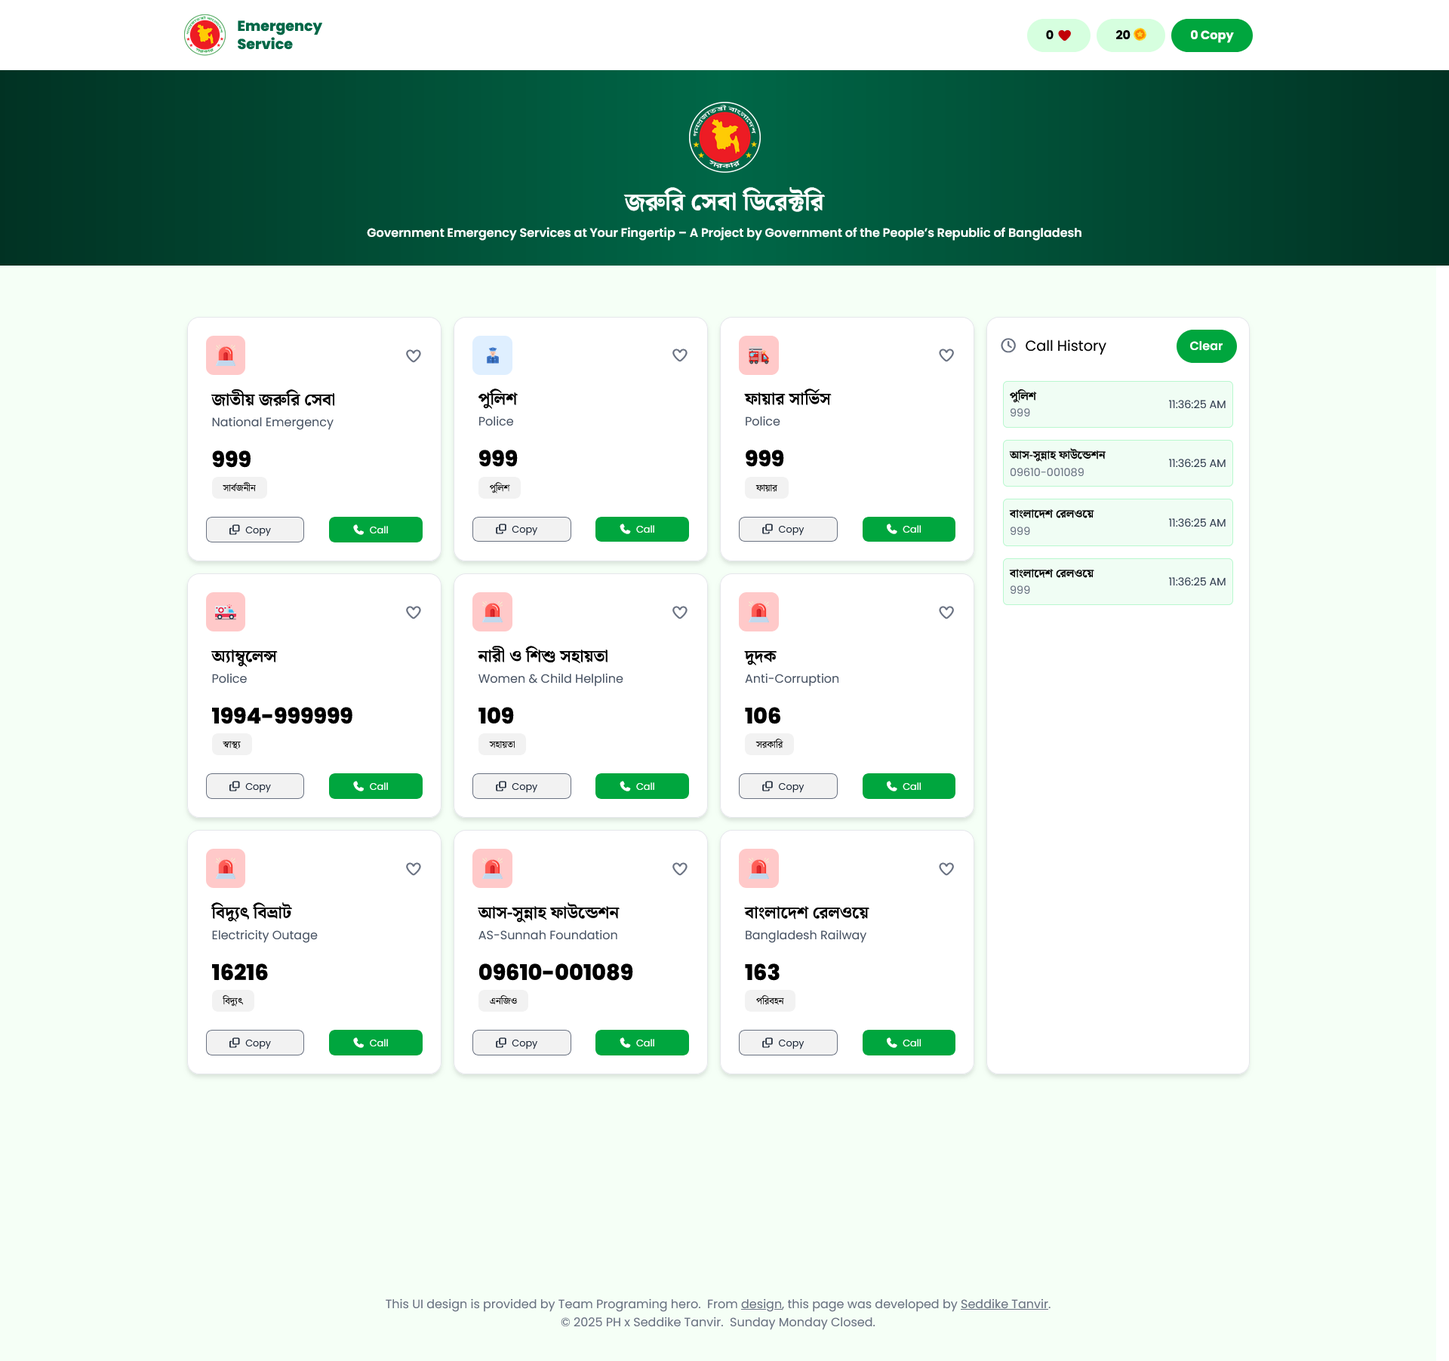
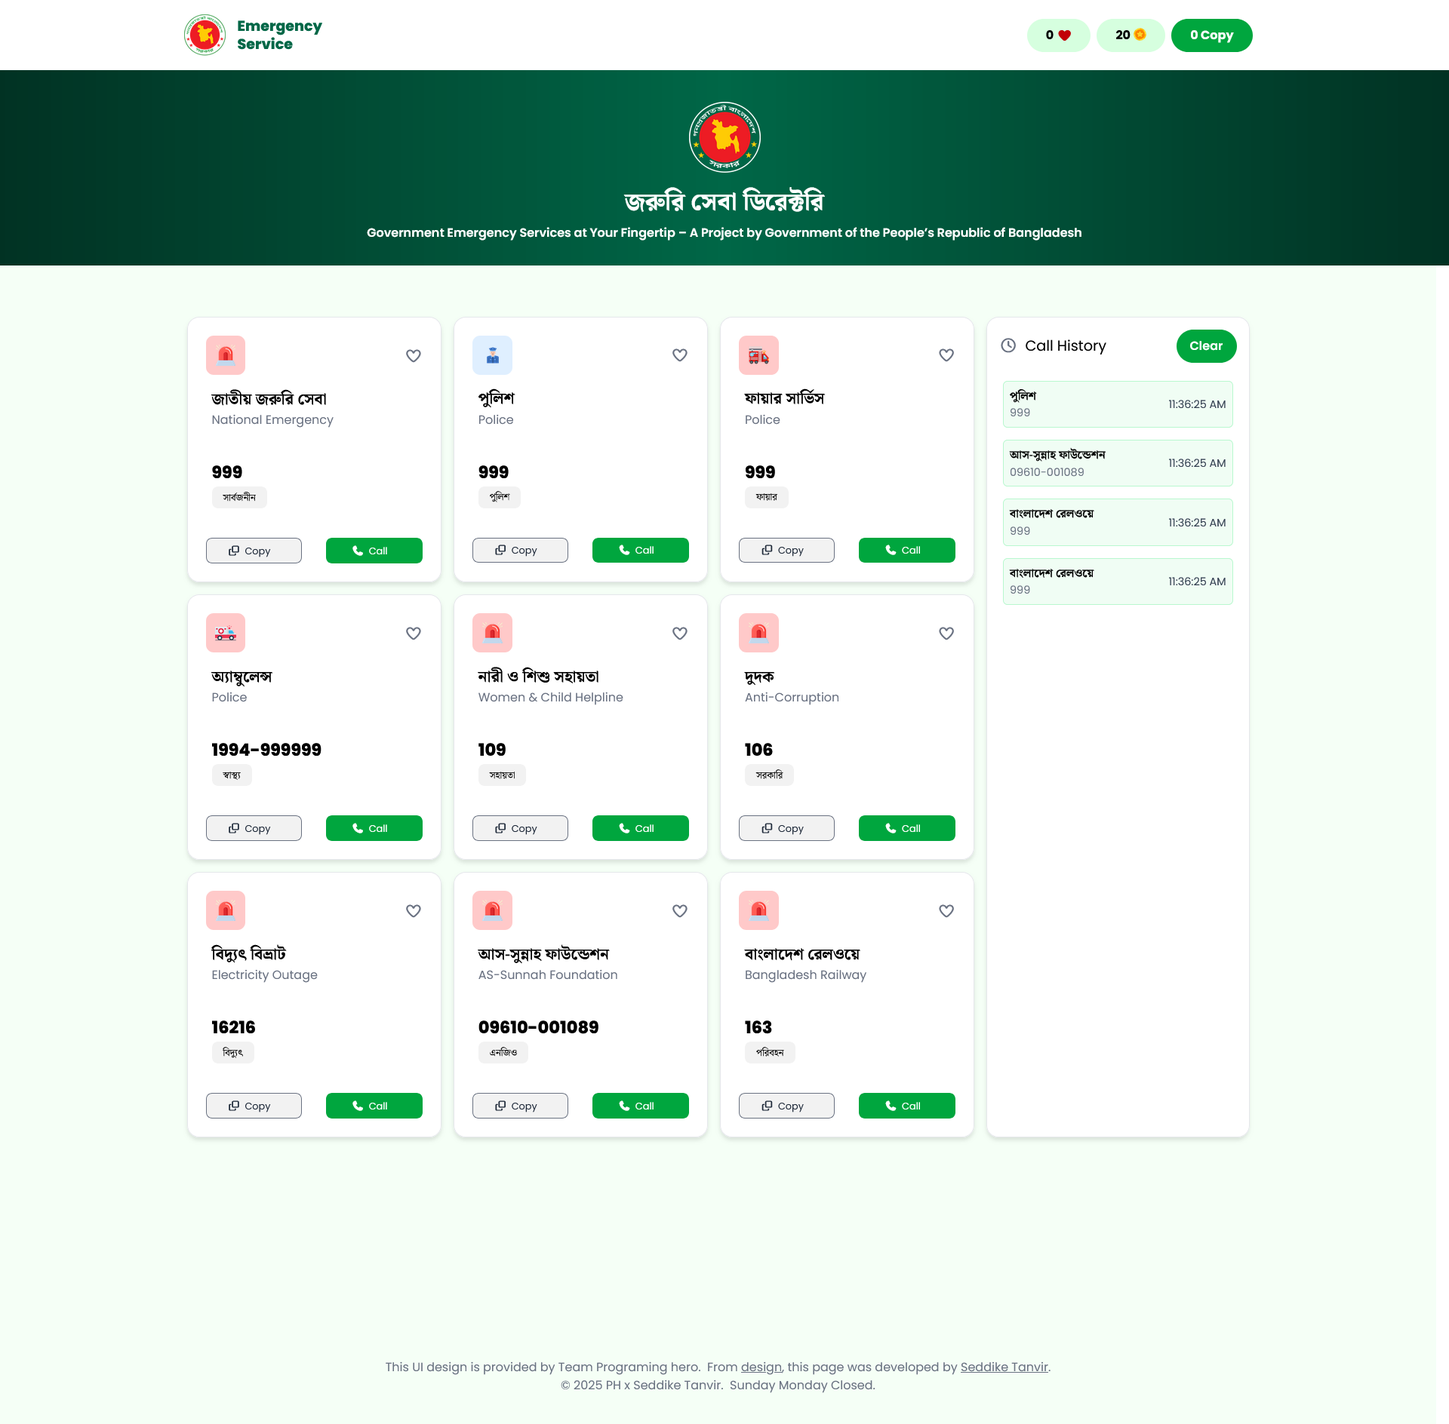
Call button and copy button style fixed ^

diff --git a/public/index.html b/public/index.html
@@ -62,17 +62,17 @@
                         </div>
                         <i class="fa-regular fa-heart p-[0rem] text-[1.2rem] text-gray-500 cursor-pointer"></i>
                     </div>
-                    <div class="cardTitle mt-4 pl-2">
-                        <p class="title font-NatoSerifBengali text-[1.4rem] font-bold">জাতীয় জরুরি সেবা</p>
-                        <p class="subtitle text-base text-gray-600">National Emergency</p>
+                    <div class="cardTitle mt-4 pl-2 min-h-[5rem]">
+                        <p class="title font-NatoSerifBengali text-[1.3rem] font-bold">জাতীয় জরুরি সেবা</p>
+                        <p class="subtitle text-base text-gray-500">National Emergency</p>
                     </div>
-                    <div class="cardmid_caller mt-4 pl-2">
-                        <p class="caller_id text-[1.8rem] font-extrabold">999</p>
+                    <div class="cardmid_caller mt-4 pl-2 h-[5rem]">
+                        <p class="caller_id text-[1.4rem] font-extrabold">999</p>
                         <p class="caller-catagory font-NatoSerifBengali bg-[#f2f2f2] px-[15px] py-[5px] mt-[2px] rounded-lg w-max text-[.8rem] font-sm ">সার্বজনীন</p>
                     </div>
-                    <div class="cardFooter_btnArea mt-6 flex flex-row justify-between ">
-                        <button class="copyBtn bg-[#f2f2f2] py-[5px] pl-[1.8rem] pr-[2.7rem] rounded-lg w-max text-gray-800 text-[.8rem] font-sm border border-gray-500 cursor-pointer"><i class="fa-regular fa-clone"></i>&nbsp; Copy </button>
-                        <button class="callBtn bg-[#00a63e] py-[5px] pl-[1.8rem] pr-[2.7rem] rounded-lg w-max text-white text-[.8rem] font-sm border-2 border-[#00a63e] cursor-pointer"><i class="fa-solid fa-phone"></i>&nbsp; Call </button>
+                    <div class="cardFooter_btnArea mt-6 flex flex-row justify-between gap-8">
+                        <button class="copyBtn bg-[#f2f2f2] py-[5px] pr-3 rounded-lg w-full text-gray-800 text-[.8rem] font-sm border border-gray-500 cursor-pointer"><i class="fa-regular fa-clone"></i>&nbsp; Copy </button>
+                        <button class="callBtn bg-[#00a63e] py-[5px] pr-3 rounded-lg w-full text-white text-[.8rem] font-sm border-2 border-[#00a63e] cursor-pointer"><i class="fa-solid fa-phone"></i>&nbsp; Call </button>
                     </div>
                 </div>
 
@@ -83,17 +83,17 @@
                         </div>
                         <i class="fa-regular fa-heart p-[0rem] text-[1.2rem] text-gray-500 cursor-pointer"></i>
                     </div>
-                    <div class="cardTitle mt-4 pl-2">
-                        <p class="title font-NatoSerifBengali text-[1.4rem] font-bold">পুলিশ</p>
-                        <p class="subtitle text-base text-gray-600">Police</p>
+                    <div class="cardTitle mt-4 pl-2 min-h-[5rem]">
+                        <p class="title font-NatoSerifBengali text-[1.3rem] font-bold">পুলিশ</p>
+                        <p class="subtitle text-base text-gray-500">Police</p>
                     </div>
-                    <div class="cardmid_caller mt-4 pl-2">
-                        <p class="caller_id text-[1.8rem] font-extrabold">999</p>
+                    <div class="cardmid_caller mt-4 pl-2 h-[5rem]">
+                        <p class="caller_id text-[1.4rem] font-extrabold">999</p>
                         <p class="caller-catagory font-NatoSerifBengali bg-[#f2f2f2] px-[15px] py-[5px] mt-[2px] rounded-lg w-max text-[.8rem] font-sm ">পুলিশ</p>
                     </div>
-                    <div class="cardFooter_btnArea mt-6 flex flex-row justify-between ">
-                        <button class="copyBtn bg-[#f2f2f2] py-[5px] pl-[1.8rem] pr-[2.7rem] rounded-lg w-max text-gray-800 text-[.8rem] font-sm border border-gray-500 cursor-pointer"><i class="fa-regular fa-clone"></i>&nbsp; Copy </button>
-                        <button class="callBtn bg-[#00a63e] py-[5px] pl-[1.8rem] pr-[2.7rem] rounded-lg w-max text-white text-[.8rem] font-sm border-2 border-[#00a63e] cursor-pointer"><i class="fa-solid fa-phone"></i>&nbsp; Call </button>
+                    <div class="cardFooter_btnArea mt-6 flex flex-row justify-between gap-8">
+                        <button class="copyBtn bg-[#f2f2f2] py-[5px] pr-3 rounded-lg w-full text-gray-800 text-[.8rem] font-sm border border-gray-500 cursor-pointer"><i class="fa-regular fa-clone"></i>&nbsp; Copy </button>
+                        <button class="callBtn bg-[#00a63e] py-[5px] pr-3 rounded-lg w-full text-white text-[.8rem] font-sm border-2 border-[#00a63e] cursor-pointer"><i class="fa-solid fa-phone"></i>&nbsp; Call </button>
                     </div>
                 </div>
 
@@ -104,17 +104,17 @@
                         </div>
                         <i class="fa-regular fa-heart p-[0rem] text-[1.2rem] text-gray-500 cursor-pointer"></i>
                     </div>
-                    <div class="cardTitle mt-4 pl-2">
-                        <p class="title font-NatoSerifBengali text-[1.4rem] font-bold">ফায়ার সার্ভিস</p>
-                        <p class="subtitle text-base text-gray-600">Police</p>
+                    <div class="cardTitle mt-4 pl-2 min-h-[5rem]">
+                        <p class="title font-NatoSerifBengali text-[1.3rem] font-bold">ফায়ার সার্ভিস</p>
+                        <p class="subtitle text-base text-gray-500">Police</p>
                     </div>
-                    <div class="cardmid_caller mt-4 pl-2">
-                        <p class="caller_id text-[1.8rem] font-extrabold">999</p>
+                    <div class="cardmid_caller mt-4 pl-2 h-[5rem]">
+                        <p class="caller_id text-[1.4rem] font-extrabold">999</p>
                         <p class="caller-catagory font-NatoSerifBengali bg-[#f2f2f2] px-[15px] py-[5px] mt-[2px] rounded-lg w-max text-[.8rem] font-sm ">ফায়ার</p>
                     </div>
-                    <div class="cardFooter_btnArea mt-6 flex flex-row justify-between ">
-                        <button class="copyBtn bg-[#f2f2f2] py-[5px] pl-[1.8rem] pr-[2.7rem] rounded-lg w-max text-gray-800 text-[.8rem] font-sm border border-gray-500 cursor-pointer"><i class="fa-regular fa-clone"></i>&nbsp; Copy </button>
-                        <button class="callBtn bg-[#00a63e] py-[5px] pl-[1.8rem] pr-[2.7rem] rounded-lg w-max text-white text-[.8rem] font-sm border-2 border-[#00a63e] cursor-pointer"><i class="fa-solid fa-phone"></i>&nbsp; Call </button>
+                    <div class="cardFooter_btnArea mt-6 flex flex-row justify-between gap-8">
+                        <button class="copyBtn bg-[#f2f2f2] py-[5px] pr-3 rounded-lg w-full text-gray-800 text-[.8rem] font-sm border border-gray-500 cursor-pointer"><i class="fa-regular fa-clone"></i>&nbsp; Copy </button>
+                        <button class="callBtn bg-[#00a63e] py-[5px] pr-3 rounded-lg w-full text-white text-[.8rem] font-sm border-2 border-[#00a63e] cursor-pointer"><i class="fa-solid fa-phone"></i>&nbsp; Call </button>
                     </div>
                 </div>
 
@@ -125,17 +125,17 @@
                         </div>
                         <i class="fa-regular fa-heart p-[0rem] text-[1.2rem] text-gray-500 cursor-pointer"></i>
                     </div>
-                    <div class="cardTitle mt-4 pl-2">
-                        <p class="title font-NatoSerifBengali text-[1.4rem] font-bold">অ্যাম্বুলেন্স</p>
-                        <p class="subtitle text-base text-gray-600">Police</p>
+                    <div class="cardTitle mt-4 pl-2 min-h-[5rem]">
+                        <p class="title font-NatoSerifBengali text-[1.3rem] font-bold">অ্যাম্বুলেন্স</p>
+                        <p class="subtitle text-base text-gray-500">Police</p>
                     </div>
-                    <div class="cardmid_caller mt-4 pl-2">
-                        <p class="caller_id text-[1.8rem] font-extrabold">1994-999999</p>
+                    <div class="cardmid_caller mt-4 pl-2 h-[5rem]">
+                        <p class="caller_id text-[1.4rem] font-extrabold">1994-999999</p>
                         <p class="caller-catagory font-NatoSerifBengali bg-[#f2f2f2] px-[15px] py-[5px] mt-[2px] rounded-lg w-max text-[.8rem] font-sm ">স্বাস্থ্য</p>
                     </div>
-                    <div class="cardFooter_btnArea mt-6 flex flex-row justify-between ">
-                        <button class="copyBtn bg-[#f2f2f2] py-[5px] pl-[1.8rem] pr-[2.7rem] rounded-lg w-max text-gray-800 text-[.8rem] font-sm border border-gray-500 cursor-pointer"><i class="fa-regular fa-clone"></i>&nbsp; Copy </button>
-                        <button class="callBtn bg-[#00a63e] py-[5px] pl-[1.8rem] pr-[2.7rem] rounded-lg w-max text-white text-[.8rem] font-sm border-2 border-[#00a63e] cursor-pointer"><i class="fa-solid fa-phone"></i>&nbsp; Call </button>
+                    <div class="cardFooter_btnArea mt-6 flex flex-row justify-between gap-8">
+                        <button class="copyBtn bg-[#f2f2f2] py-[5px] pr-3 rounded-lg w-full text-gray-800 text-[.8rem] font-sm border border-gray-500 cursor-pointer"><i class="fa-regular fa-clone"></i>&nbsp; Copy </button>
+                        <button class="callBtn bg-[#00a63e] py-[5px] pr-3 rounded-lg w-full text-white text-[.8rem] font-sm border-2 border-[#00a63e] cursor-pointer"><i class="fa-solid fa-phone"></i>&nbsp; Call </button>
                     </div>
                 </div>
 
@@ -146,17 +146,17 @@
                         </div>
                         <i class="fa-regular fa-heart p-[0rem] text-[1.2rem] text-gray-500 cursor-pointer"></i>
                     </div>
-                    <div class="cardTitle mt-4 pl-2">
-                        <p class="title font-NatoSerifBengali text-[1.4rem] font-bold">নারী ও শিশু সহায়তা</p>
-                        <p class="subtitle text-base text-gray-600">Women & Child Helpline</p>
+                    <div class="cardTitle mt-4 pl-2 min-h-[5rem]">
+                        <p class="title font-NatoSerifBengali text-[1.3rem] font-bold">নারী ও শিশু সহায়তা</p>
+                        <p class="subtitle text-base text-gray-500">Women & Child Helpline</p>
                     </div>
-                    <div class="cardmid_caller mt-4 pl-2">
-                        <p class="caller_id text-[1.8rem] font-extrabold">109</p>
+                    <div class="cardmid_caller mt-4 pl-2 h-[5rem]">
+                        <p class="caller_id text-[1.4rem] font-extrabold">109</p>
                         <p class="caller-catagory font-NatoSerifBengali bg-[#f2f2f2] px-[15px] py-[5px] mt-[2px] rounded-lg w-max text-[.8rem] font-sm ">সহায়তা</p>
                     </div>
-                    <div class="cardFooter_btnArea mt-6 flex flex-row justify-between ">
-                        <button class="copyBtn bg-[#f2f2f2] py-[5px] pl-[1.8rem] pr-[2.7rem] rounded-lg w-max text-gray-800 text-[.8rem] font-sm border border-gray-500 cursor-pointer"><i class="fa-regular fa-clone"></i>&nbsp; Copy </button>
-                        <button class="callBtn bg-[#00a63e] py-[5px] pl-[1.8rem] pr-[2.7rem] rounded-lg w-max text-white text-[.8rem] font-sm border-2 border-[#00a63e] cursor-pointer"><i class="fa-solid fa-phone"></i>&nbsp; Call </button>
+                    <div class="cardFooter_btnArea mt-6 flex flex-row justify-between gap-8">
+                        <button class="copyBtn bg-[#f2f2f2] py-[5px] pr-3 rounded-lg w-full text-gray-800 text-[.8rem] font-sm border border-gray-500 cursor-pointer"><i class="fa-regular fa-clone"></i>&nbsp; Copy </button>
+                        <button class="callBtn bg-[#00a63e] py-[5px] pr-3 rounded-lg w-full text-white text-[.8rem] font-sm border-2 border-[#00a63e] cursor-pointer"><i class="fa-solid fa-phone"></i>&nbsp; Call </button>
                     </div>
                 </div>
 
@@ -167,17 +167,17 @@
                         </div>
                         <i class="fa-regular fa-heart p-[0rem] text-[1.2rem] text-gray-500 cursor-pointer"></i>
                     </div>
-                    <div class="cardTitle mt-4 pl-2">
-                        <p class="title font-NatoSerifBengali text-[1.4rem] font-bold">দুদক</p>
-                        <p class="subtitle text-base text-gray-600">Anti-Corruption</p>
+                    <div class="cardTitle mt-4 pl-2 min-h-[5rem]">
+                        <p class="title font-NatoSerifBengali text-[1.3rem] font-bold">দুদক</p>
+                        <p class="subtitle text-base text-gray-500">Anti-Corruption</p>
                     </div>
-                    <div class="cardmid_caller mt-4 pl-2">
-                        <p class="caller_id text-[1.8rem] font-extrabold">106</p>
+                    <div class="cardmid_caller mt-4 pl-2 h-[5rem]">
+                        <p class="caller_id text-[1.4rem] font-extrabold">106</p>
                         <p class="caller-catagory font-NatoSerifBengali bg-[#f2f2f2] px-[15px] py-[5px] mt-[2px] rounded-lg w-max text-[.8rem] font-sm ">সরকারি</p>
                     </div>
-                    <div class="cardFooter_btnArea mt-6 flex flex-row justify-between ">
-                        <button class="copyBtn bg-[#f2f2f2] py-[5px] pl-[1.8rem] pr-[2.7rem] rounded-lg w-max text-gray-800 text-[.8rem] font-sm border border-gray-500 cursor-pointer"><i class="fa-regular fa-clone"></i>&nbsp; Copy </button>
-                        <button class="callBtn bg-[#00a63e] py-[5px] pl-[1.8rem] pr-[2.7rem] rounded-lg w-max text-white text-[.8rem] font-sm border-2 border-[#00a63e] cursor-pointer"><i class="fa-solid fa-phone"></i>&nbsp; Call </button>
+                    <div class="cardFooter_btnArea mt-6 flex flex-row justify-between gap-8">
+                        <button class="copyBtn bg-[#f2f2f2] py-[5px] pr-3 rounded-lg w-full text-gray-800 text-[.8rem] font-sm border border-gray-500 cursor-pointer"><i class="fa-regular fa-clone"></i>&nbsp; Copy </button>
+                        <button class="callBtn bg-[#00a63e] py-[5px] pr-3 rounded-lg w-full text-white text-[.8rem] font-sm border-2 border-[#00a63e] cursor-pointer"><i class="fa-solid fa-phone"></i>&nbsp; Call </button>
                     </div>
                 </div>
 
@@ -188,17 +188,17 @@
                         </div>
                         <i class="fa-regular fa-heart p-[0rem] text-[1.2rem] text-gray-500 cursor-pointer"></i>
                     </div>
-                    <div class="cardTitle mt-4 pl-2">
-                        <p class="title font-NatoSerifBengali text-[1.4rem] font-bold">বিদ্যুৎ বিভ্রাট</p>
-                        <p class="subtitle text-base text-gray-600">Electricity Outage</p>
+                    <div class="cardTitle mt-4 pl-2 min-h-[5rem]">
+                        <p class="title font-NatoSerifBengali text-[1.3rem] font-bold">বিদ্যুৎ বিভ্রাট</p>
+                        <p class="subtitle text-base text-gray-500">Electricity Outage</p>
                     </div>
-                    <div class="cardmid_caller mt-4 pl-2">
-                        <p class="caller_id text-[1.8rem] font-extrabold">16216</p>
+                    <div class="cardmid_caller mt-4 pl-2 h-[5rem]">
+                        <p class="caller_id text-[1.4rem] font-extrabold">16216</p>
                         <p class="caller-catagory font-NatoSerifBengali bg-[#f2f2f2] px-[15px] py-[5px] mt-[2px] rounded-lg w-max text-[.8rem] font-sm ">বিদ্যুৎ</p>
                     </div>
-                    <div class="cardFooter_btnArea mt-6 flex flex-row justify-between ">
-                        <button class="copyBtn bg-[#f2f2f2] py-[5px] pl-[1.8rem] pr-[2.7rem] rounded-lg w-max text-gray-800 text-[.8rem] font-sm border border-gray-500 cursor-pointer"><i class="fa-regular fa-clone"></i>&nbsp; Copy </button>
-                        <button class="callBtn bg-[#00a63e] py-[5px] pl-[1.8rem] pr-[2.7rem] rounded-lg w-max text-white text-[.8rem] font-sm border-2 border-[#00a63e] cursor-pointer"><i class="fa-solid fa-phone"></i>&nbsp; Call </button>
+                    <div class="cardFooter_btnArea mt-6 flex flex-row justify-between gap-8">
+                        <button class="copyBtn bg-[#f2f2f2] py-[5px] pr-3 rounded-lg w-full text-gray-800 text-[.8rem] font-sm border border-gray-500 cursor-pointer"><i class="fa-regular fa-clone"></i>&nbsp; Copy </button>
+                        <button class="callBtn bg-[#00a63e] py-[5px] pr-3 rounded-lg w-full text-white text-[.8rem] font-sm border-2 border-[#00a63e] cursor-pointer"><i class="fa-solid fa-phone"></i>&nbsp; Call </button>
                     </div>
                 </div>
 
@@ -209,17 +209,17 @@
                         </div>
                         <i class="fa-regular fa-heart p-[0rem] text-[1.2rem] text-gray-500 cursor-pointer"></i>
                     </div>
-                    <div class="cardTitle mt-4 pl-2">
-                        <p class="title font-NatoSerifBengali text-[1.4rem] font-bold">আস-সুন্নাহ ফাউন্ডেশন</p>
-                        <p class="subtitle text-base text-gray-600">AS-Sunnah Foundation</p>
+                    <div class="cardTitle mt-4 pl-2 min-h-[5rem]">
+                        <p class="title font-NatoSerifBengali text-[1.3rem] font-bold">আস-সুন্নাহ ফাউন্ডেশন</p>
+                        <p class="subtitle text-base text-gray-500">AS-Sunnah Foundation</p>
                     </div>
-                    <div class="cardmid_caller mt-4 pl-2">
-                        <p class="caller_id text-[1.8rem] font-extrabold">09610-001089</p>
+                    <div class="cardmid_caller mt-4 pl-2 h-[5rem]">
+                        <p class="caller_id text-[1.4rem] font-extrabold">09610-001089</p>
                         <p class="caller-catagory font-NatoSerifBengali bg-[#f2f2f2] px-[15px] py-[5px] mt-[2px] rounded-lg w-max text-[.8rem] font-sm ">এনজিও</p>
                     </div>
-                    <div class="cardFooter_btnArea mt-6 flex flex-row justify-between ">
-                        <button class="copyBtn bg-[#f2f2f2] py-[5px] pl-[1.8rem] pr-[2.7rem] rounded-lg w-max text-gray-800 text-[.8rem] font-sm border border-gray-500 cursor-pointer"><i class="fa-regular fa-clone"></i>&nbsp; Copy </button>
-                        <button class="callBtn bg-[#00a63e] py-[5px] pl-[1.8rem] pr-[2.7rem] rounded-lg w-max text-white text-[.8rem] font-sm border-2 border-[#00a63e] cursor-pointer"><i class="fa-solid fa-phone"></i>&nbsp; Call </button>
+                    <div class="cardFooter_btnArea mt-6 flex flex-row justify-between gap-8">
+                        <button class="copyBtn bg-[#f2f2f2] py-[5px] pr-3 rounded-lg w-full text-gray-800 text-[.8rem] font-sm border border-gray-500 cursor-pointer"><i class="fa-regular fa-clone"></i>&nbsp; Copy </button>
+                        <button class="callBtn bg-[#00a63e] py-[5px] pr-3 rounded-lg w-full text-white text-[.8rem] font-sm border-2 border-[#00a63e] cursor-pointer"><i class="fa-solid fa-phone"></i>&nbsp; Call </button>
                     </div>
                 </div>
 
@@ -230,17 +230,17 @@
                         </div>
                         <i class="fa-regular fa-heart p-[0rem] text-[1.2rem] text-gray-500 cursor-pointer"></i>
                     </div>
-                    <div class="cardTitle mt-4 pl-2">
-                        <p class="title font-NatoSerifBengali text-[1.4rem] font-bold">বাংলাদেশ রেলওয়ে</p>
-                        <p class="subtitle text-base text-gray-600">Bangladesh Railway</p>
+                    <div class="cardTitle mt-4 pl-2 min-h-[5rem]">
+                        <p class="title font-NatoSerifBengali text-[1.3rem] font-bold">বাংলাদেশ রেলওয়ে</p>
+                        <p class="subtitle text-base text-gray-500">Bangladesh Railway</p>
                     </div>
-                    <div class="cardmid_caller mt-4 pl-2">
-                        <p class="caller_id text-[1.8rem] font-extrabold">163</p>
+                    <div class="cardmid_caller mt-4 pl-2 h-[5rem]">
+                        <p class="caller_id text-[1.4rem] font-extrabold">163</p>
                         <p class="caller-catagory font-NatoSerifBengali bg-[#f2f2f2] px-[15px] py-[5px] mt-[2px] rounded-lg w-max text-[.8rem] font-sm ">পরিবহন</p>
                     </div>
-                    <div class="cardFooter_btnArea mt-6 flex flex-row justify-between ">
-                        <button class="copyBtn bg-[#f2f2f2] py-[5px] pl-[1.8rem] pr-[2.7rem] rounded-lg w-max text-gray-800 text-[.8rem] font-sm border border-gray-500 cursor-pointer"><i class="fa-regular fa-clone"></i>&nbsp; Copy </button>
-                        <button class="callBtn bg-[#00a63e] py-[5px] pl-[1.8rem] pr-[2.7rem] rounded-lg w-max text-white text-[.8rem] font-sm border-2 border-[#00a63e] cursor-pointer"><i class="fa-solid fa-phone"></i>&nbsp; Call </button>
+                    <div class="cardFooter_btnArea mt-6 flex flex-row justify-between gap-8">
+                        <button class="copyBtn bg-[#f2f2f2] py-[5px] pr-3 rounded-lg w-full text-gray-800 text-[.8rem] font-sm border border-gray-500 cursor-pointer"><i class="fa-regular fa-clone"></i>&nbsp; Copy </button>
+                        <button class="callBtn bg-[#00a63e] py-[5px] pr-3 rounded-lg w-full text-white text-[.8rem] font-sm border-2 border-[#00a63e] cursor-pointer"><i class="fa-solid fa-phone"></i>&nbsp; Call </button>
                     </div>
                 </div>
 
